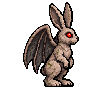
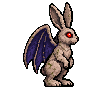
Tint the wings indigo and add the Roebling Bridge over the river

Changed region(s): [[0.2308, 0.3636, 0.5769, 0.7955], [0.375, 0.3182, 0.4904, 0.4545]]

diff --git a/src/main.ts b/src/main.ts
@@ -14,11 +14,18 @@ const LIVES = 3;
 
 // Level 1 set pieces, repeating. Buildings sit behind the street and scroll slower.
 const BUILDING_PARALLAX = 0.6;
-const LOOP = 3600;
+const LOOP = 4400;
 const PIECES: { name: BuildingName; x: number }[] = [
   { name: 'music-hall', x: 300 },
-  { name: 'mother-of-god', x: 2100 },
+  { name: 'mother-of-god', x: 3000 },
 ];
+
+// The Roebling Bridge sits farther back, over the river, in the stretch between
+// Music Hall and Mother of God. Its loop matches the buildings' so they stay in step.
+const BRIDGE_PARALLAX = 0.35;
+const BRIDGE_LOOP = (LOOP / BUILDING_PARALLAX) * BRIDGE_PARALLAX;
+const BRIDGE_X = 1120;
+const RIVER = 34; // river height above the ground line
 
 type State = 'loading' | 'title' | 'playing' | 'over';
 
@@ -153,6 +160,7 @@ function draw() {
   if (shake > 0) ctx.translate(Math.round((Math.random() - 0.5) * 8 * shake), Math.round((Math.random() - 0.5) * 6 * shake));
   drawSky();
   drawSkyline();
+  drawBridge();
   drawBuildings();
   drawStreet();
   if (state === 'playing' || state === 'over') {
@@ -214,6 +222,33 @@ function drawSkyline() {
       ctx.fillRect(x, ground - b.h, b.w, b.h);
       ctx.fillStyle = '#c9a25e';
       for (const [lx, ly] of b.lit) ctx.fillRect(x + lx, ground - b.h + ly, 2, 3);
+    }
+  }
+}
+
+function drawBridge() {
+  const { bridge } = assets;
+  const base = ((BRIDGE_X - camX * BRIDGE_PARALLAX) % BRIDGE_LOOP + BRIDGE_LOOP) % BRIDGE_LOOP;
+  for (const x0 of [base - BRIDGE_LOOP, base]) {
+    const x = Math.round(x0);
+    const rx = x - 140, rw = bridge.width + 220;
+    if (rx > W || rx + rw < 0) continue;
+    // river, fading out at both ends
+    const g = ctx.createLinearGradient(rx, 0, rx + rw, 0);
+    g.addColorStop(0, 'rgba(16, 20, 52, 0)');
+    g.addColorStop(0.15, 'rgba(16, 20, 52, 1)');
+    g.addColorStop(0.85, 'rgba(16, 20, 52, 1)');
+    g.addColorStop(1, 'rgba(16, 20, 52, 0)');
+    ctx.fillStyle = g;
+    ctx.fillRect(rx, ground - RIVER, rw, RIVER);
+    ctx.drawImage(bridge, x, ground - RIVER + 10 - bridge.height);
+    // light from the cables shimmering on the water
+    for (let i = 0; i < 26; i++) {
+      const sx = x + 20 + ((i * 97) % (bridge.width - 60));
+      const sy = ground - RIVER + 12 + ((i * 7) % (RIVER - 16));
+      const on = Math.sin(time * 3 + i * 1.7) > 0.2;
+      ctx.fillStyle = on ? 'rgba(255, 190, 90, 0.55)' : 'rgba(120, 150, 255, 0.35)';
+      ctx.fillRect(sx + Math.round(Math.sin(time * 2 + i) * 2), sy, 6 + (i % 3) * 2, 1);
     }
   }
 }

diff --git a/src/assets.ts b/src/assets.ts
@@ -21,6 +21,7 @@ export interface Assets {
   sheet: HTMLImageElement;
   meta: SheetMeta;
   logo: HTMLImageElement;
+  bridge: HTMLImageElement;
   buildings: Record<BuildingName, BuildingArt>;
 }
 
@@ -51,16 +52,18 @@ async function loadBuilding(name: BuildingName): Promise<BuildingArt> {
 }
 
 export async function loadAssets(): Promise<Assets> {
-  const [sheet, meta, logo, ...buildings] = await Promise.all([
+  const [sheet, meta, logo, bridge, ...buildings] = await Promise.all([
     loadImage('character/mothbun_sheet.png'),
     loadJson<SheetMeta>('character/mothbun_sheet.json'),
     loadImage('ui/logo.png'),
+    loadImage('buildings/roebling.png'),
     ...BUILDINGS.map(loadBuilding),
   ]);
   return {
     sheet,
     meta,
     logo,
+    bridge,
     buildings: Object.fromEntries(buildings.map((b) => [b.name, b])) as Record<BuildingName, BuildingArt>,
   };
 }

diff --git a/tools/recolor_wings.py b/tools/recolor_wings.py
@@ -1,0 +1,38 @@
+from PIL import Image; import numpy as np, json
+from scipy import ndimage as nd
+# Tints the wing membranes on the character sheet. Reads the original gray sheet from
+# raw/character-gray/ and writes assets/character/mothbun_sheet.png plus frames/.
+# Wings are the large low-saturation gray regions in each frame; the inner ears and
+# body shadows are similar grays but small, so they are left alone.
+DARK, LIGHT = (14, 10, 34), (78, 58, 140)  # indigo, from shadow to highlight
+
+meta = json.load(open('assets/character/mothbun_sheet.json'))
+FW, FH = meta['frameWidth'], meta['frameHeight']
+im = np.array(Image.open('raw/character-gray/mothbun_sheet.png').convert('RGBA')).astype(float)
+R, G, B, A = im[..., 0], im[..., 1], im[..., 2], im[..., 3]
+lum = R * 0.3 + G * 0.59 + B * 0.11
+sat = im[..., :3].max(-1) - im[..., :3].min(-1)
+strict = (A > 0) & (lum > 30) & (lum < 118) & (sat < 28)
+loose = (A > 0) & (lum > 12) & (lum < 118) & (sat < 30)
+
+seed = np.zeros_like(strict)
+for fy in range(0, im.shape[0], FH):
+    for fx in range(0, im.shape[1], FW):
+        c = strict[fy:fy + FH, fx:fx + FW]
+        lab, n = nd.label(c, structure=np.ones((3, 3)))
+        if n:
+            sizes = nd.sum(c, lab, range(1, n + 1))
+            seed[fy:fy + FH, fx:fx + FW] = np.isin(lab, 1 + np.where(sizes >= 120)[0])
+wing = nd.binary_propagation(seed, structure=np.ones((3, 3)), mask=loose)
+wing |= nd.binary_closing(wing, iterations=1) & loose
+
+t = np.clip((lum - 15) / 100, 0, 1)[..., None]
+tint = np.array(DARK) + (np.array(LIGHT) - np.array(DARK)) * t
+im[..., :3] = np.where(wing[..., None], tint, im[..., :3])
+sheet = Image.fromarray(np.uint8(im), 'RGBA')
+sheet.save('assets/character/mothbun_sheet.png')
+cols = sheet.width // FW
+for i, name in enumerate(meta['frames']):
+    x, y = (i % cols) * FW, (i // cols) * FH
+    sheet.crop((x, y, x + FW, y + FH)).save(f'assets/character/frames/{name}')
+print('wing px', int(wing.sum()))

diff --git a/tools/clean_bridge.py b/tools/clean_bridge.py
@@ -1,0 +1,34 @@
+from PIL import Image; import numpy as np
+from scipy import ndimage as nd
+# Roebling Bridge background layer. Keys out the green, snaps the art to its ~3.4 px
+# pixel grid, quantizes, and night-grades everything but the lamps and cable lights.
+# The source is cut off on the right, so that edge fades out with an ordered dither.
+GRID = 3.4
+FADE = 56  # art px
+im = np.array(Image.open('raw/roebling.png').convert('RGB')).astype(float)
+r, g, b = im[..., 0], im[..., 1], im[..., 2]
+a = nd.binary_opening(~((g > 140) & (g > r + 50) & (g > b + 50)), iterations=1)
+edge = a & nd.binary_dilation(~a, iterations=3)
+mx = np.maximum(r, b)
+im[..., 1] = np.where(edge & (g > mx), mx, g)
+ys, xs = np.where(a)
+im = im[ys.min():ys.max() + 1, xs.min():xs.max() + 1]; a = a[ys.min():ys.max() + 1, xs.min():xs.max() + 1]
+W, H = round(a.shape[1] / GRID), round(a.shape[0] / GRID)
+s = np.array(Image.fromarray(np.uint8(np.dstack([im * a[..., None], a * 255])), 'RGBA').resize((W, H), Image.BOX)).astype(float)
+al = s[..., 3] / 255
+rgb = np.where(al[..., None] > 0, s[..., :3] / np.maximum(al[..., None], 1e-6), 0)
+rgb = np.array(Image.fromarray(np.uint8(np.clip(rgb, 0, 255))).quantize(colors=40, method=Image.Quantize.MEDIANCUT).convert('RGB')).astype(float)
+alpha = al > 0.5
+
+R, G, B = rgb[..., 0], rgb[..., 1], rgb[..., 2]
+lit = (R > 190) & (G > 120) & (R > B + 90)
+night = rgb * np.array([0.5, 0.5, 0.75]) + np.array([8, 6, 22])
+rgb = np.where(lit[..., None], rgb, night)
+
+bayer = np.array([[0, 8, 2, 10], [12, 4, 14, 6], [3, 11, 1, 9], [15, 7, 13, 5]]) / 16
+xx = np.arange(W)[None, :].repeat(H, 0)
+keep = np.clip((W - 1 - xx) / FADE, 0, 1) > bayer[np.arange(H)[:, None] % 4, xx % 4]
+alpha &= keep
+
+Image.fromarray(np.dstack([np.clip(rgb, 0, 255), alpha * 255]).astype(np.uint8), 'RGBA').save('assets/buildings/roebling.png')
+print('roebling', W, H)

diff --git a/tools/clean_logo.py b/tools/clean_logo.py
@@ -1,7 +1,7 @@
 from PIL import Image; import numpy as np
 from scipy import ndimage as nd
 # Keys out the green, snaps the ChatGPT logo to its ~11.7 px pixel grid, and recolors
-# the blue wings and pink inner ears to match the rabbit's charcoal and concrete.
+# the wings to the rabbit's indigo and the pink inner ears to concrete.
 GRID=11.7
 im=np.array(Image.open('raw/logo.png').convert('RGB')).astype(float)
 r,g,b=im[...,0],im[...,1],im[...,2]
@@ -18,7 +18,8 @@ blue=(B>R+15)&(B>G)
 # inner ears: the red pixels in the box above the T and H
 yy,xx=np.mgrid[0:H,0:W]
 pink=(R>90)&(R>G+40)&(R>B+40)&(yy<H*0.3)&(xx>W*0.42)&(xx<W*0.61)
-rgb=np.where(blue[...,None],lum*np.array([0.78,0.76,0.74]),rgb)
+t=np.clip((lum-15)/100,0,1)
+rgb=np.where(blue[...,None],np.array([14,10,34])+(np.array([78,58,140])-np.array([14,10,34]))*t,rgb)  # same indigo as tools/recolor_wings.py
 rgb=np.where(pink[...,None],lum*np.array([0.95,0.9,0.82]),rgb)
 Image.fromarray(np.dstack([np.clip(rgb,0,255),(al>0.5)*255]).astype(np.uint8),'RGBA').save('assets/ui/logo.png')
 print('logo',W,H)
